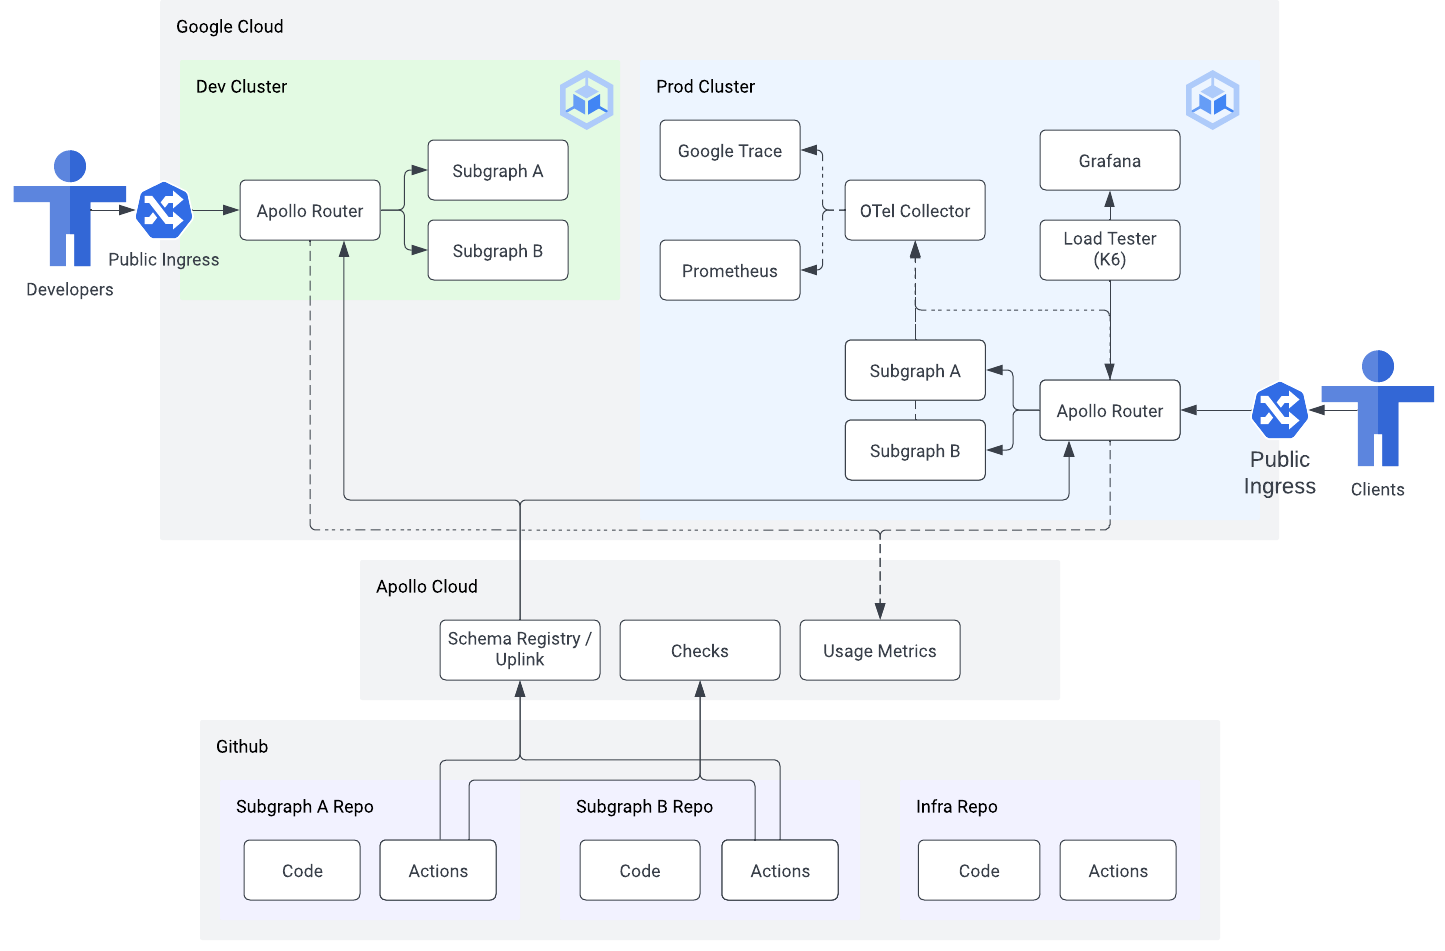
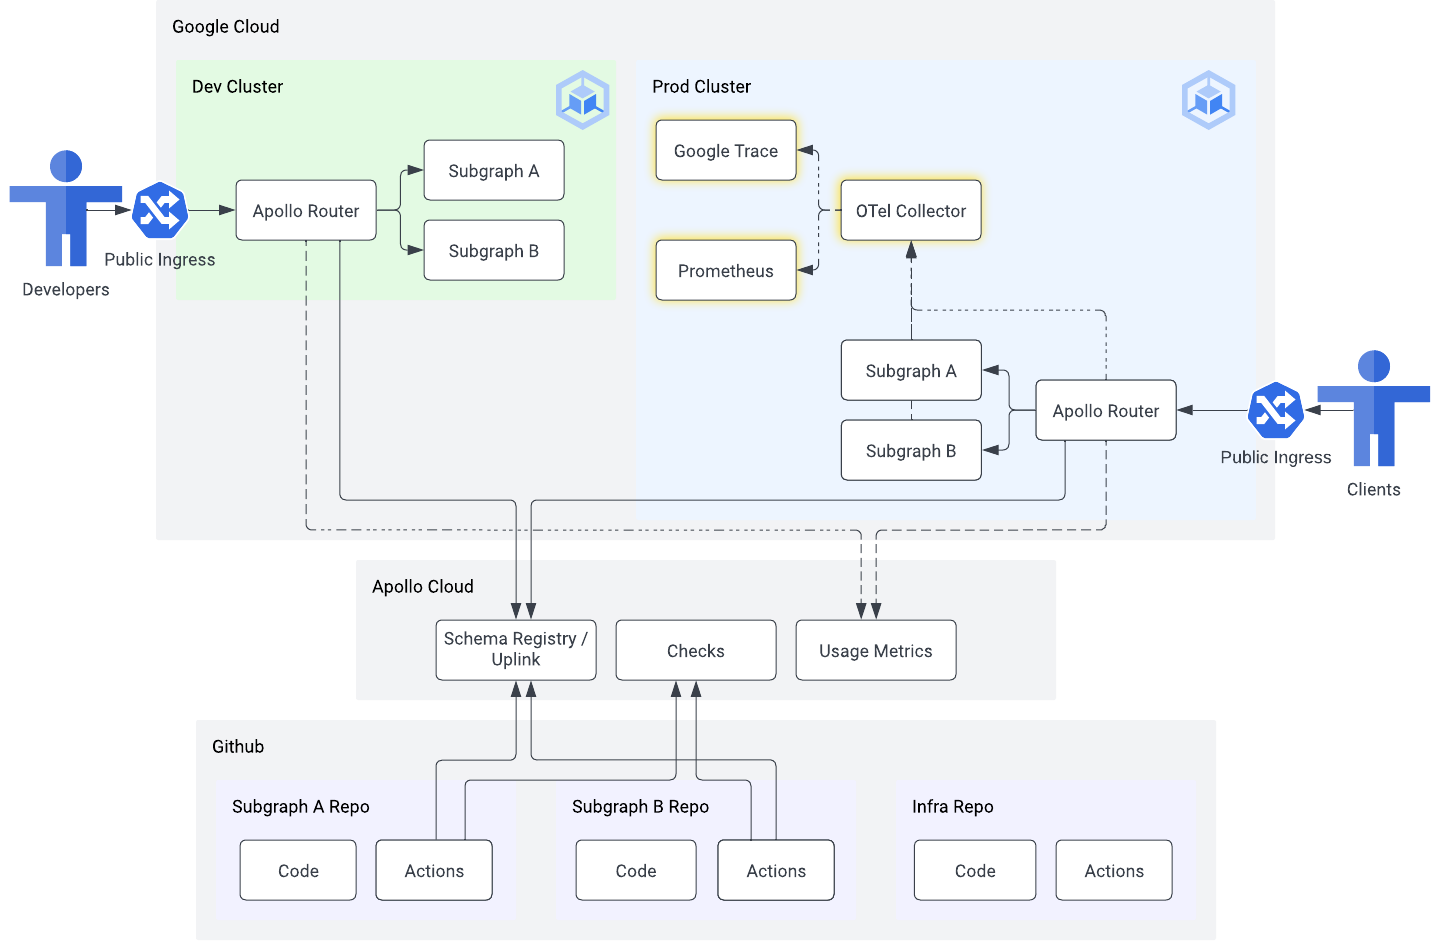
fix lines on diagrams
correctly indicate requestor and avoid connecting unrelated components

diff --git a/01-setup/README.md b/01-setup/README.md
@@ -4,7 +4,7 @@
 
 ## What you'll build
 
-![Architecture diagram of the supergraph](diagram.png)
+![Architecture diagram of the supergraph](01-diagram.png)
 
 ## Part A: Gather accounts and credentials
 
@@ -178,7 +178,7 @@ After this completes, kick off deploys of both subgraphs to the dev cluster:
 
 ```sh
 gh workflow run "Merge to Main" --repo $GITHUB_ORG/apollo-supergraph-k8s-subgraph-a
-gh workflow run "Merge to Main" --repo $GITHUB_ORG/apollo-supergraph-k8s-subgraph-b 
+gh workflow run "Merge to Main" --repo $GITHUB_ORG/apollo-supergraph-k8s-subgraph-b
 # this deploys a dependency for prod, see note below
 gh workflow run "Deploy Open Telemetry Collector" --repo $GITHUB_ORG/apollo-supergraph-k8s-infra
 ```

diff --git a/02-managed-federation/README.md b/02-managed-federation/README.md
@@ -4,7 +4,7 @@
 
 ## What you'll build
 
-![Architecture diagram of the supergraph](diagram.png)
+![Architecture diagram of the supergraph](02-diagram.png)
 
 ## Part A: Publish subgraph schemas to Apollo Studio
 

diff --git a/03-schema-checks/README.md b/03-schema-checks/README.md
@@ -4,7 +4,7 @@
 
 ## What you'll build
 
-![Architecture diagram of the supergraph](diagram.png)
+![Architecture diagram of the supergraph](03-diagram.png)
 
 ## Part A: Schema checks on pull requests
 

diff --git a/05-load-testing/README.md b/05-load-testing/README.md
@@ -4,7 +4,7 @@
 
 ## What you'll build
 
-![Architecture diagram of the supergraph](diagram.png)
+![Architecture diagram of the supergraph](05-diagram.png)
 
 ## Part A: Deploy load testing client
 

diff --git a/04-observability/README.md b/04-observability/README.md
@@ -4,7 +4,7 @@
 
 ## What you'll build
 
-![Architecture diagram of the supergraph](diagram.png)
+![Architecture diagram of the supergraph](04-diagram.png)
 
 ## Part A: Setup Open Telemetry
 
